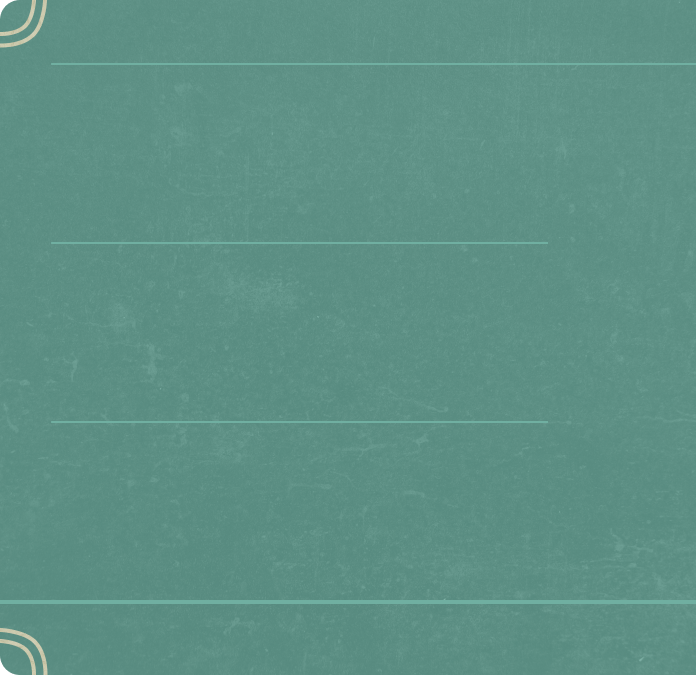
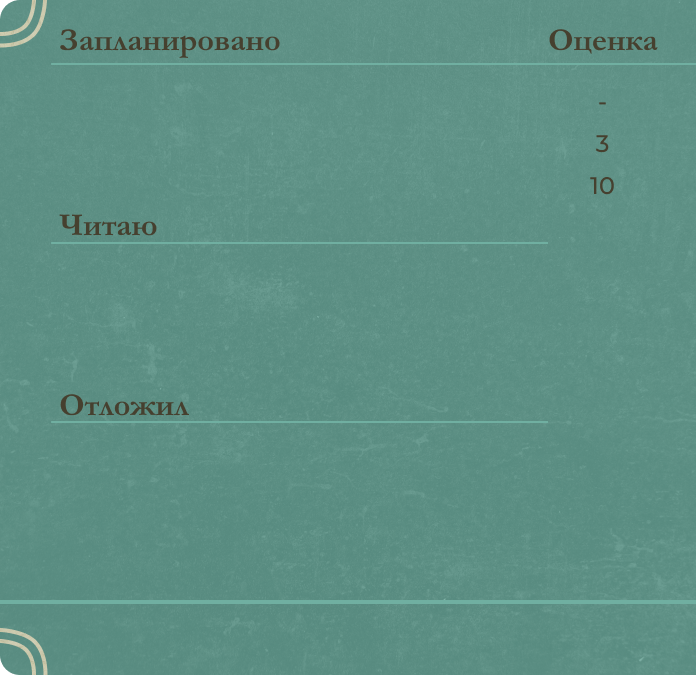
Готов список книг

diff --git a/test.py b/test.py
@@ -1,0 +1,21 @@
+import tkinter as tk
+
+root = tk.Tk()
+
+# Create a canvas
+canvas = tk.Canvas(root, height=200, width=300, background="lightblue")
+canvas.pack()
+
+# Create a frame
+scrollbar = tk.Scrollbar(canvas, orient="vertical",command=canvas.yview)
+scrollbar.pack(side="right", fill="y")
+
+# Add the frame to the canvas
+canvas.create_window(50, 50, anchor="nw")
+
+# Add a button to the frame
+button = tk.Listbox(canvas)
+button.insert(tk.END, "я качусь по миру со мной два чемодана")
+button.pack(padx=20, pady=20)
+
+root.mainloop()

diff --git a/Book.py b/Book.py
@@ -1,9 +1,9 @@
 import requests
-
 API_KEY = 'AIzaSyAJ1j8sZsZS0ZE5JmrLIh1naLYgRMv7dgQ'
 class Book:
     all_info = None
-
+    status = 'WillRead'
+    mark = '-'
     def __init__(self,id):
         self.id = id
         self.all_info = requests.get(f'https://www.googleapis.com/books/v1/volumes/{self.id}?=key{API_KEY}')
